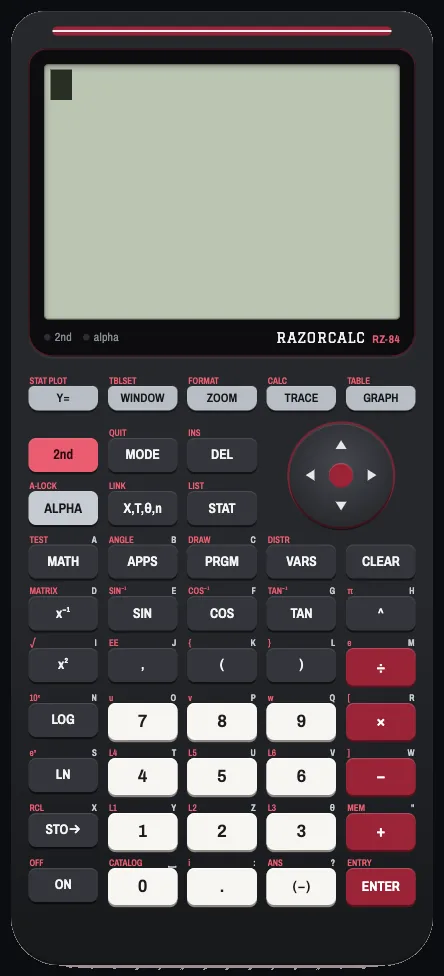
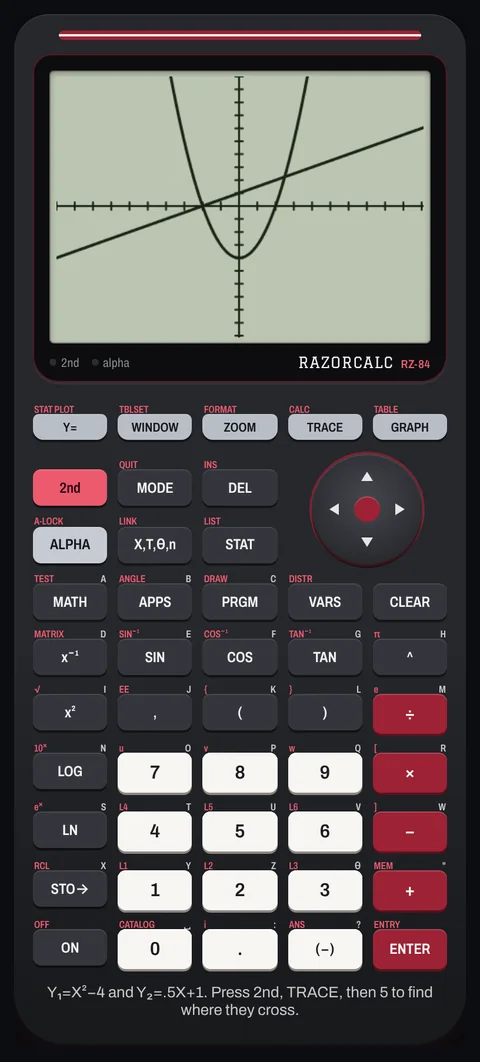
Tighten the two lead case files after a fact and copy review
Razorcalc (CF-01)
- The screenshot now shows the calculator's built-in graph example
  instead of a blank display, captured from the app's own code with its
  own fonts, on the page's dark background.
- The org line leads with "Built on my own" so it no longer reads as a
  class assignment; the course is still named.
- Result names the TI-84 reference check as well as SciPy and NumPy,
  and carries the free-and-public / QR-code detail.

Portfolio Tracker (CF-02)
- The caption says the GMV and tangency weights are fitted on the same
  2019-2026 window (a backtest, not a forecast) and that Custom sits at
  its equal-weight default, which is why those two rows match.
- The chart links to the full-size image so it can be read on a phone.
- "Any multi-asset portfolio" becomes "any portfolio of 3 to 10 stocks",
  matching what the app accepts, and GMV is spelled out.

Elsewhere
- The analysis skills line no longer says SQL, Excel and Tableau are
  proved in CF-01 and CF-02; neither project uses them.
- The footer reads "Updated October 2026".

Claude-Session: https://claude.ai/code/session_01TW7R4mJ1xMsS9WdCwsVFGf

diff --git a/index.html b/index.html
@@ -107,7 +107,7 @@
         <div class="case-media">
           <div>
             <h3>Razorcalc</h3>
-            <p class="org">Infrastructure and Digital Innovation (ISYS&nbsp;43203) · built for my own Learning Assistant sessions, presented in class, deployed and free to anyone through a QR&nbsp;code</p>
+            <p class="org">Built on my own for my Learning Assistant sessions · presented in Infrastructure and Digital Innovation (ISYS&nbsp;43203)</p>
             <dl class="qa">
               <div>
                 <dt>Problem</dt>
@@ -115,11 +115,11 @@
               </div>
               <div>
                 <dt>What I did</dt>
-                <dd>Built a free calculator that works like a TI-84 and runs in any phone's browser, with nothing to install: graphing, a finance solver for loans, savings and investments, and full statistics, including regressions, hypothesis tests and confidence intervals.</dd>
+                <dd>Built a free calculator that works like a TI-84 and runs in any phone's browser, with nothing to install. It covers graphing, a finance solver for loans, savings and investments, and full statistics, including regressions, hypothesis tests and confidence intervals.</dd>
               </div>
               <div>
                 <dt>Result</dt>
-                <dd>Shared with the student-athletes I tutor. Checked against SciPy and NumPy, standard Python statistics libraries: all 68 statistical results matched to at least six significant digits. Every screen was tested in an automated browser.</dd>
+                <dd>Free and public, and shared through a QR&nbsp;code with the student-athletes I tutor. Checked against known TI-84 results and the Python libraries SciPy and NumPy: all 68 statistical results matched to at least six significant digits. Every screen was tested in an automated browser.</dd>
               </div>
             </dl>
             <p class="tags-label">Skills proved</p>
@@ -132,8 +132,8 @@
             <p class="evidence"><a href="https://juanpablohoyosc.github.io/Razorcalc/">Open Razorcalc</a><a href="https://github.com/Juanpablohoyosc/Razorcalc">View the code</a></p>
           </div>
           <figure class="shot shot--phone">
-            <img src="assets/img/razorcalc.webp" width="444" height="976" loading="lazy" alt="Razorcalc's calculator screen: a TI-84 style layout with a dark body, a grey display and red, white and dark keys.">
-            <figcaption>Razorcalc, calculator view</figcaption>
+            <img src="assets/img/razorcalc.webp" width="480" height="1062" loading="lazy" alt="Razorcalc on its graph screen, plotting the parabola Y1 = X² &minus; 4 and the line Y2 = 0.5X + 1 crossing twice, above a TI-84 style keypad.">
+            <figcaption>Razorcalc graphing Y1&nbsp;=&nbsp;X²&nbsp;&minus;&nbsp;4 and Y2&nbsp;=&nbsp;0.5X&nbsp;+&nbsp;1</figcaption>
           </figure>
         </div>
       </article>
@@ -153,11 +153,11 @@
           </div>
           <div>
             <dt>What I did</dt>
-            <dd>Built and deployed a Streamlit app in Python: Sharpe and Sortino ratios, rolling volatility and drawdowns, correlation and covariance matrices, and Markowitz optimization for the global minimum-variance and tangency portfolios along the efficient frontier, with per-asset risk contribution, a weight-slider builder and estimation-window sensitivity.</dd>
+            <dd>Built and deployed a Streamlit app in Python: Sharpe and Sortino ratios, rolling volatility and drawdowns, correlation and covariance matrices, and Markowitz optimization for the global minimum-variance (GMV) and tangency portfolios along the efficient frontier, with per-asset risk contribution, a weight-slider builder and estimation-window sensitivity.</dd>
           </div>
           <div>
             <dt>Result</dt>
-            <dd>Any multi-asset portfolio can be ranked on risk-adjusted return rather than return alone, and the weights that produce it are visible. Deployed and public, so you can test it on your own tickers.</dd>
+            <dd>Any portfolio of 3 to 10 stocks can be ranked on risk-adjusted return rather than return alone, and the weights behind each one are visible. Deployed and public, so you can test it on your own tickers.</dd>
           </div>
         </dl>
         <p class="tags-label">Skills proved</p>
@@ -170,8 +170,8 @@
         </ul>
         <p class="evidence"><a href="https://juanpablohoyosc-portfolio-app.streamlit.app/">Open the live app</a></p>
         <figure class="shot shot--end">
-          <img src="assets/img/portfolio-comparison.webp" width="1200" height="538" loading="lazy" alt="Portfolio comparison from the Portfolio Tracker App: growth of $1 from 2019 to 2026 for the tangency, minimum-variance, equal-weight and custom portfolios against the S&amp;P 500, above a table of annual return, volatility, Sharpe ratio, Sortino ratio and maximum drawdown for each.">
-          <figcaption>AAPL, MSFT, JPM, KO and CVX against the S&amp;P 500, Jan 2019 – Oct 2026</figcaption>
+          <a href="assets/img/portfolio-comparison.webp"><img src="assets/img/portfolio-comparison.webp" width="1200" height="538" loading="lazy" alt="Portfolio comparison from the Portfolio Tracker App: growth of $1 from 2019 to 2026 for the tangency, minimum-variance (GMV), equal-weight and custom portfolios against the S&amp;P 500, above a table of annual return, volatility, Sharpe ratio, Sortino ratio and maximum drawdown for each."></a>
+          <figcaption>Four portfolios built from AAPL, MSFT, JPM, KO and CVX against the S&amp;P&nbsp;500, Jan 2019 – Oct 2026. The GMV and tangency weights are fitted on this same period, so this is a backtest, not a forecast. Custom is left at its equal-weight default.</figcaption>
         </figure>
       </article>
 
@@ -333,7 +333,7 @@
         <div class="skillgroup">
           <h3>Analysis and modeling</h3>
           <p>Python, SQL, Excel, Tableau, portfolio theory, statistics.</p>
-          <p class="proof">Proved in CF-01 and CF-02</p>
+          <p class="proof">Statistics proved in CF-01; Python and portfolio theory in CF-02</p>
         </div>
         <div class="skillgroup">
           <h3>Customers and selling</h3>
@@ -343,7 +343,7 @@
         <div class="skillgroup">
           <h3>Building with AI</h3>
           <p>Writing specifications, directing coding agents, comparing models on the same task, reviewing generated code, Git and GitHub, VS Code.</p>
-          <p class="proof">Proved in CF-01, CF-02 and this site</p>
+          <p class="proof">Proved in CF-01, CF-02, this site and its repository</p>
         </div>
         <div class="skillgroup">
           <h3>Teaching and languages</h3>
@@ -407,7 +407,7 @@
 <footer>
   <div class="wrap">
     <span>Juan Pablo Hoyos Castedo · Fayetteville, Arkansas</span>
-    <span><a href="links/">Links page</a> · <a href="https://github.com/Juanpablohoyosc">GitHub</a> · Updated September 2026</span>
+    <span><a href="links/">Links page</a> · <a href="https://github.com/Juanpablohoyosc">GitHub</a> · Updated October 2026</span>
   </div>
 </footer>
 

diff --git a/assets/css/styles.css b/assets/css/styles.css
@@ -416,3 +416,5 @@ footer a:hover { color: var(--accent); }
   .case--media .qa { grid-template-columns: repeat(3, minmax(0, 1fr)); }
 }
 .shot--end { margin: 16px 0 0; }
+.shot a { display: block; border-bottom: 0; }
+.shot a:focus-visible { outline-offset: -2px; }
